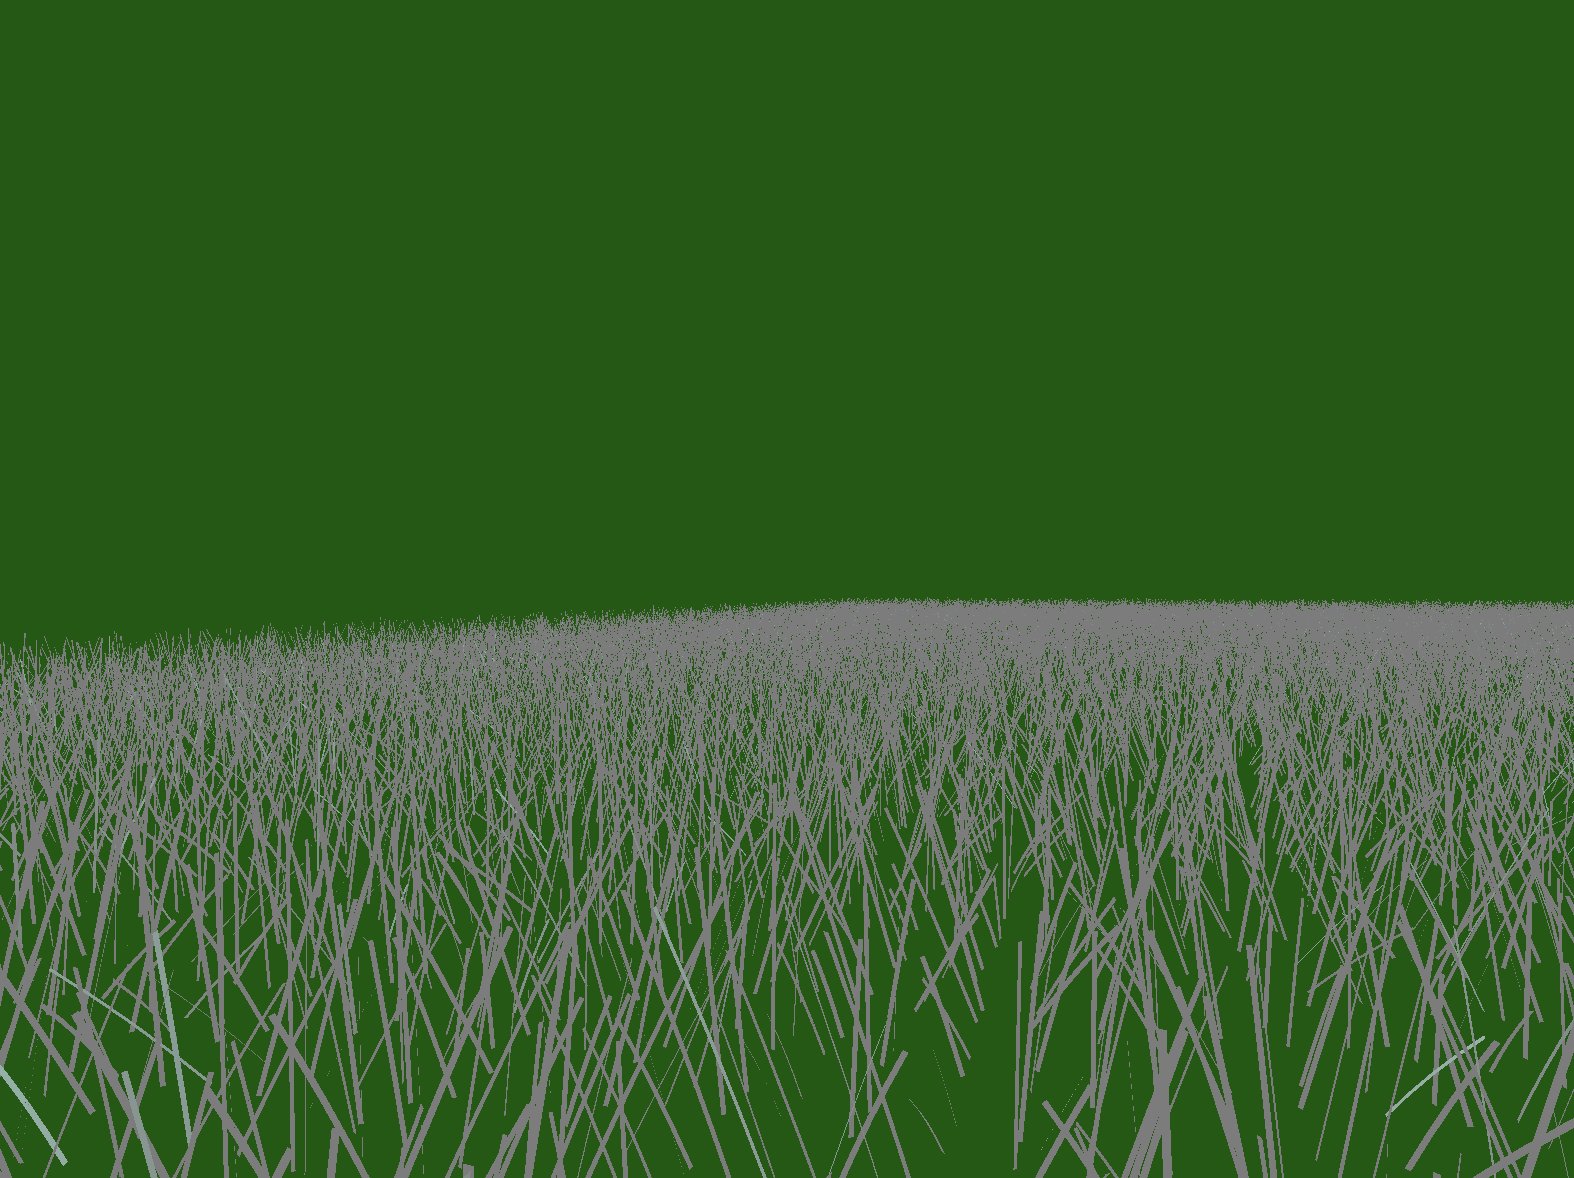
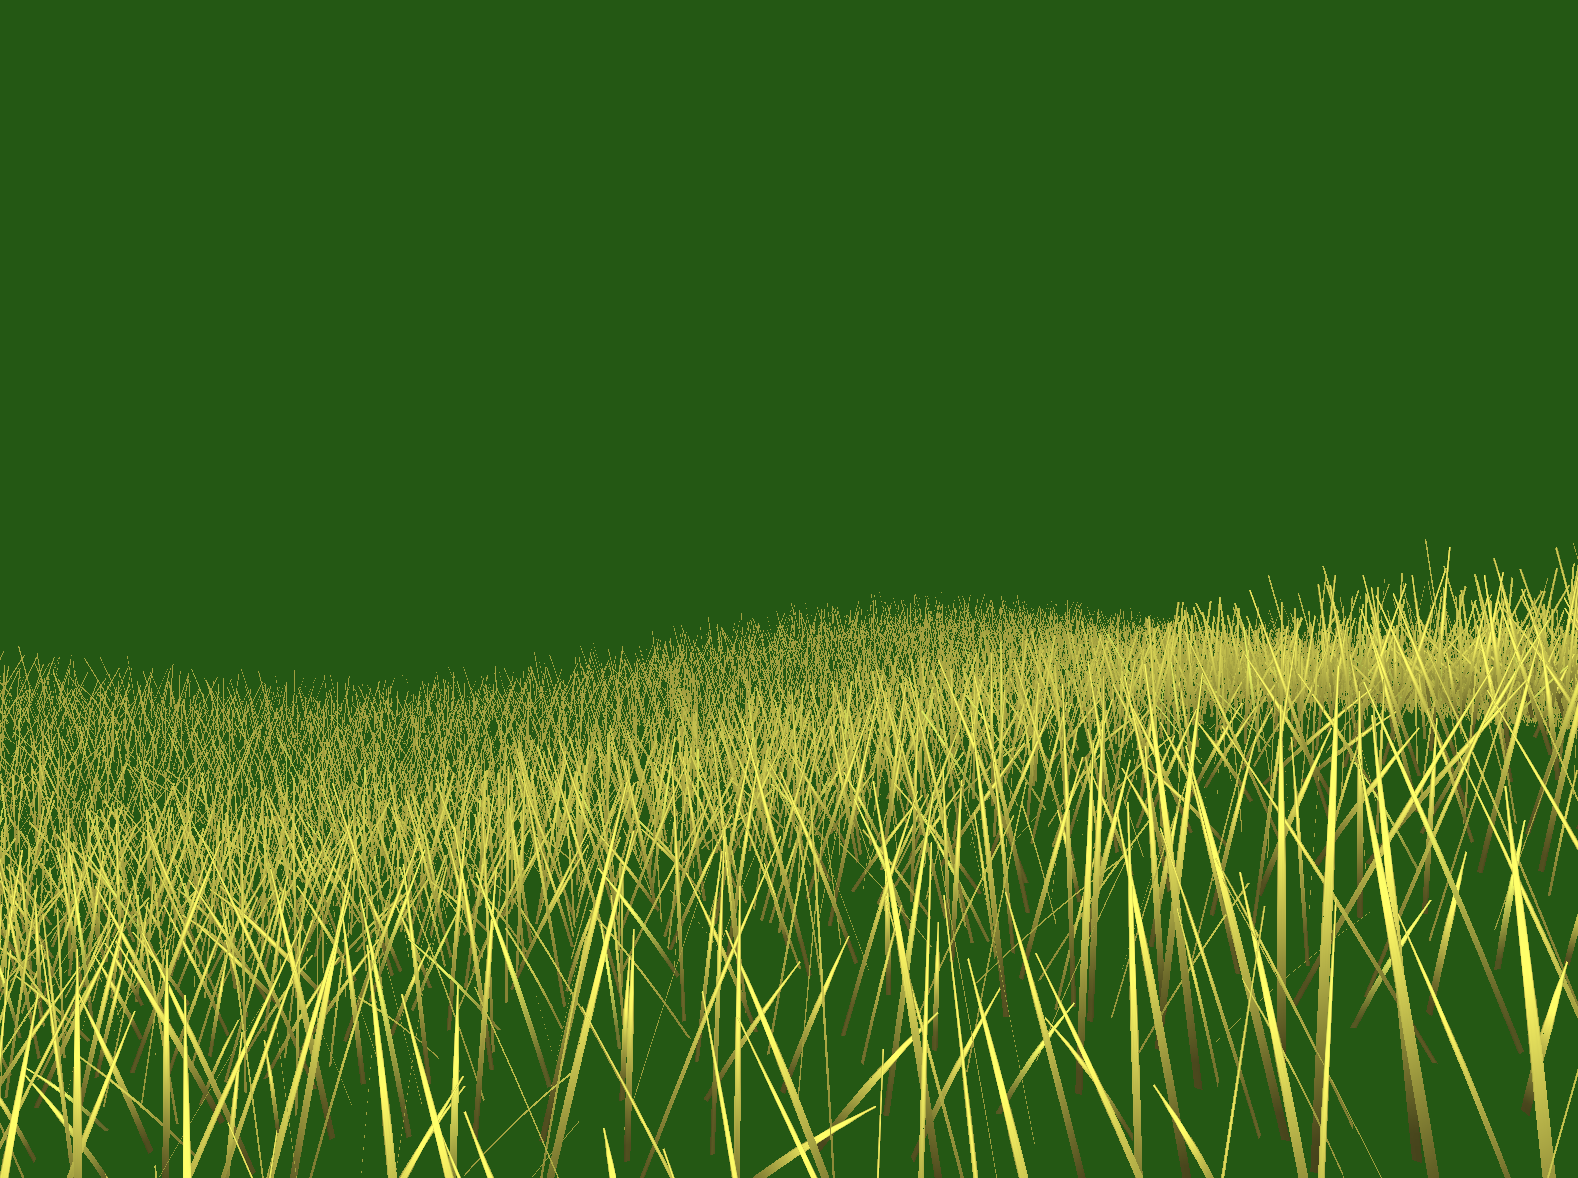
grass texture and terrain
disard fragments with alpha < 0.5

simple compound_sin terrain

diff --git a/metal_01/GrassRenderer.swift b/metal_01/GrassRenderer.swift
@@ -82,7 +82,7 @@ class GrassRenderer: NSObject, MTKViewDelegate {
 
         do {
             colorMap = try GrassRenderer.loadTexture(
-                device: device, textureName: "ColorMap")
+                device: device, textureName: "Leaf")
         } catch {
             print("Unable to load texture. Error info: \(error)")
             return nil
@@ -118,6 +118,16 @@ class GrassRenderer: NSObject, MTKViewDelegate {
             metalKitView.depthStencilPixelFormat
         pipelineDescriptor.stencilAttachmentPixelFormat =
             metalKitView.depthStencilPixelFormat
+        
+        if let colorAtt = pipelineDescriptor.colorAttachments[0] {
+            colorAtt.isBlendingEnabled = true
+            colorAtt.rgbBlendOperation = MTLBlendOperation.add
+            colorAtt.alphaBlendOperation = MTLBlendOperation.add
+            colorAtt.sourceRGBBlendFactor = MTLBlendFactor.sourceAlpha
+            colorAtt.sourceAlphaBlendFactor = MTLBlendFactor.sourceAlpha
+            colorAtt.destinationRGBBlendFactor = MTLBlendFactor.oneMinusSourceAlpha
+            colorAtt.destinationAlphaBlendFactor = MTLBlendFactor.oneMinusSourceAlpha
+        }
 
         return try device.makeRenderPipelineState (
             descriptor: pipelineDescriptor, options: MTLPipelineOption())
@@ -221,7 +231,8 @@ class GrassRenderer: NSObject, MTKViewDelegate {
                     renderEncoder.setFragmentBuffer(
                         dynamicUniformBuffer, offset: uniformBufferOffset,
                         index: BufferIndex.uniforms.rawValue)
-                    
+                    renderEncoder.setFragmentTexture(
+                        colorMap, index: TextureIndex.color.rawValue)
                     for i in 0..<5 {
                         for j in 0...5 {
                             var offset = vector_float2(Float(i) * 16.0 - 8.0, Float(j) * 16.0 - 8.0);
